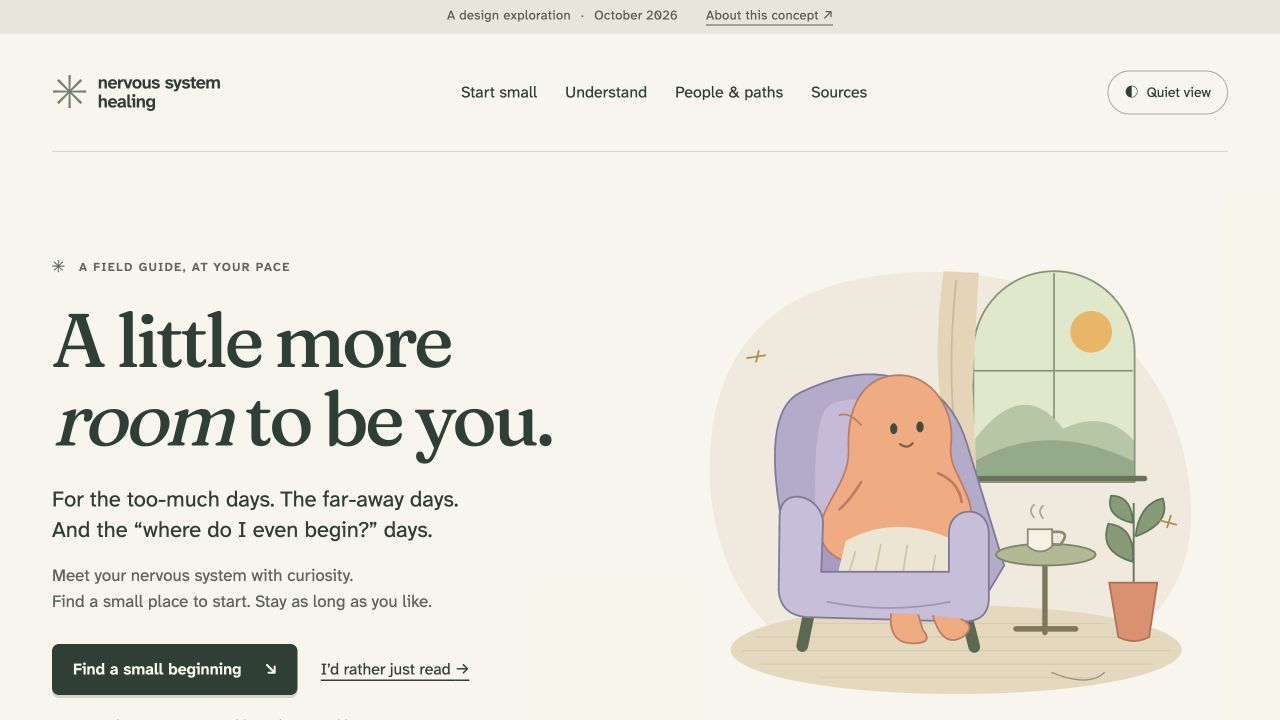
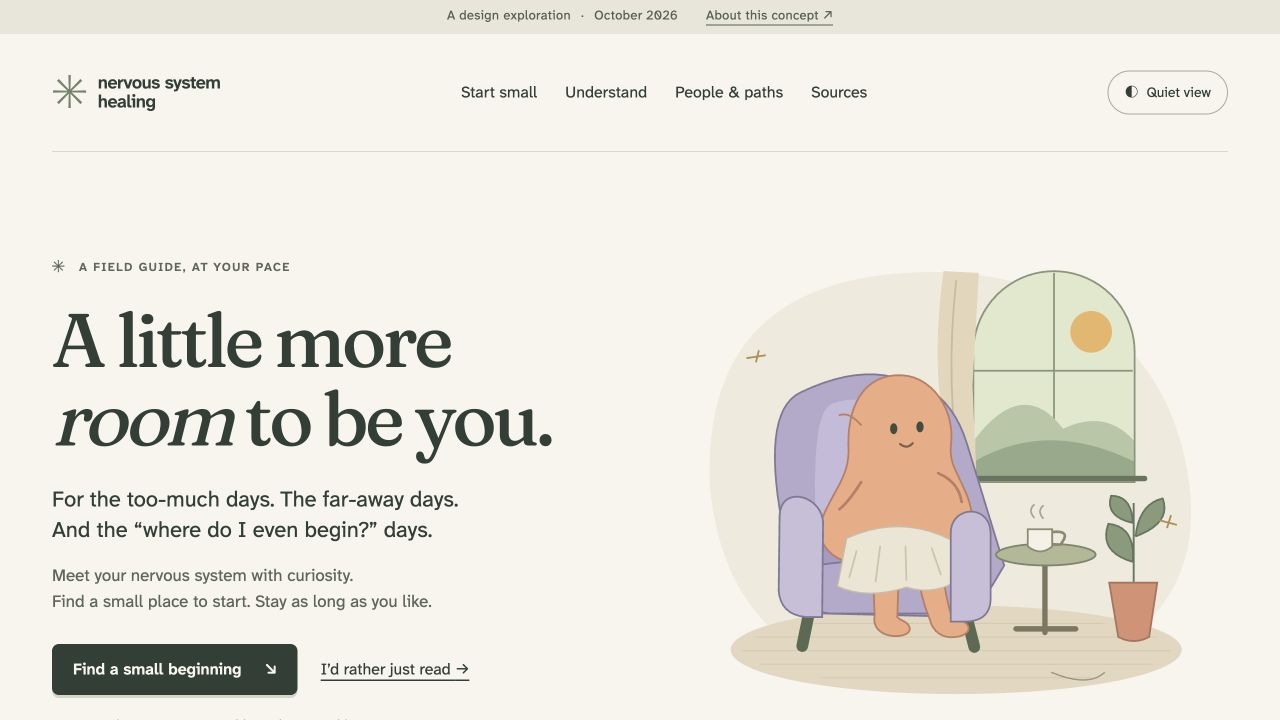
feat: publish MIT licensing and community contribution links
- License original project material under Christopher Smothers and align package metadata.
- Add contribution guidance and preserve third-party font attribution.
- Link the public repository, license, and contributions from the concept and live site.
- Refresh visual captures and record the successful Node 22 build.

Changed region(s): [[0.625, 0.7333, 0.7812, 0.9167]]

diff --git a/docs/concepts/a-little-more-room/index.html b/docs/concepts/a-little-more-room/index.html
@@ -9,7 +9,7 @@
       content="A design exploration for a friendlier field guide to having a nervous system."
     />
     <title>A little more room · Nervous System Healing concept</title>
-    <link rel="stylesheet" href="style.css" />
+    <link rel="stylesheet" href="style.css?v=20261010-community" />
     <script src="app.js" defer></script>
   </head>
   <body>
@@ -754,9 +754,23 @@
           ><span>nervous system<br />healing</span></a
         >
         <p>
-          A small project by <a href="https://crs.land/">Chris</a>.<br />Made
-          with curiosity. Still growing.
+          A free, open-source community resource by
+          <a href="https://crs.land/">Christopher Smothers</a>.<br />Made with
+          curiosity. Contributions welcome.
         </p>
+        <nav class="community-links" aria-label="Open source community">
+          <a href="https://github.com/crs48/nervous-system-healing"
+            >View the source on GitHub ↗</a
+          >
+          <a
+            href="https://github.com/crs48/nervous-system-healing/blob/main/CONTRIBUTING.md"
+            >Contribute ↗</a
+          >
+          <a
+            href="https://github.com/crs48/nervous-system-healing/blob/main/LICENSE"
+            >MIT license ↗</a
+          >
+        </nav>
       </div>
       <div id="about-concept">
         <h2 class="footer-title">About this concept</h2>

diff --git a/docs/concepts/a-little-more-room/style.css b/docs/concepts/a-little-more-room/style.css
@@ -714,6 +714,18 @@ footer .footer-title {
 footer p + p {
   margin-top: 12px;
 }
+.community-links {
+  display: flex;
+  flex-wrap: wrap;
+  gap: 0 20px;
+  margin-top: 12px;
+}
+.community-links a {
+  display: inline-flex;
+  align-items: center;
+  min-height: 44px;
+  font-size: 14px;
+}
 .quiet .decoration {
   display: none;
 }

diff --git a/CONTRIBUTING.md b/CONTRIBUTING.md
@@ -1,0 +1,43 @@
+# Contributing
+
+Nervous System Healing is a free, open-source community resource maintained by
+Christopher Smothers. Corrections, accessibility improvements, clearer writing,
+research updates, and thoughtful design contributions are welcome.
+
+## Suggest something
+
+Open an [issue](https://github.com/crs48/nervous-system-healing/issues) with the
+page or feature, what could improve, and a proposed change. For broken links,
+include the destination. For research updates, link the original study or
+guideline and explain which claim it affects.
+
+Issues and pull requests are public. Please avoid posting personal medical
+histories or identifying information about someone else. You can describe a
+usability problem without sharing a personal story.
+
+## Make a change
+
+1. Fork the repository and create a branch for one focused change.
+2. Follow the setup in [README.md](README.md) and read
+   [CONTENT_GUIDELINES.md](CONTENT_GUIDELINES.md). The latest
+   [overhaul exploration](docs/explorations/0010_%5B_%5D_A_LITTLE_MORE_ROOM_NERVOUS_SYSTEM_SITE_REJUVENATION.md)
+   identifies proposed updates to those guidelines; flag conflicts in your PR.
+3. Keep health claims specific to the population, intervention, and outcome
+   studied. Separate evidence, teaching frameworks, and personal experience.
+   Avoid universal safety claims, diagnoses from website inputs, and promises
+   of a permanent reset.
+4. Preserve choice, readable language, keyboard access, and the option to stop.
+   For visual changes, check narrow screens and reduced-motion preferences.
+5. Run `npm run build`. Explain what you changed and how you checked it in a
+   pull request; include a screenshot for a visible change.
+
+Small contributions are welcome. Larger changes are easier to coordinate with
+an issue first. Clinical content may need subject-matter review before merging.
+
+## License and attribution
+
+Contributions to this repository are made under its [MIT license](LICENSE).
+Only contribute material you have the right to share. Preserve existing
+copyright and license notices, including the separate font licenses noted in
+the README. Linking to a paper or resource does not grant permission to copy
+its text or images into the project.

diff --git a/docs/explorations/0010_[_]_A_LITTLE_MORE_ROOM_NERVOUS_SYSTEM_SITE_REJUVENATION.md b/docs/explorations/0010_[_]_A_LITTLE_MORE_ROOM_NERVOUS_SYSTEM_SITE_REJUVENATION.md
@@ -454,7 +454,7 @@ Each new resource has a named reason for inclusion and a review date. Link rot s
 - [x] Verify keyboard selection, focus visibility, quiet view, and static default presentation.
 - [x] Verify concept file links and document references.
 
-**Observed result:** the local concept was inspected at 1280px, 390px, and 320px. All four choices, arrow-key selection, ending/restart focus, quiet view, and disclosures worked. No horizontal overflow was found at those widths. A temporary script-free copy retained all four invitations and ordinary links; enhancement-only controls were hidden. JavaScript syntax and relative file/anchor checks passed; the final browser console reported no warnings or errors. [Preview instructions, scope, and screenshots](../concepts/a-little-more-room/README.md) are saved beside the concept. This is not a full accessibility or clinical certification. No production application files changed, so an Astro production build was not part of this exploration.
+**Observed result:** the local concept was inspected at 1280px, 390px, and 320px. All four choices, arrow-key selection, ending/restart focus, quiet view, and disclosures worked. No horizontal overflow was found at those widths. A temporary script-free copy retained all four invitations and ordinary links; enhancement-only controls were hidden. JavaScript syntax and relative file/anchor checks passed; the final browser console reported no warnings or errors. [Preview instructions, scope, and screenshots](../concepts/a-little-more-room/README.md) are saved beside the concept. This is not a full accessibility or clinical certification. The initial exploration changed no production application files. In the subsequent requested community update, the illustration was clarified, MIT licensing and contribution guidance were added, and both footers gained community links. The Astro build passed under Node 22.16.0 for that update; the full overhaul remains proposed.
 
 ### Required for production implementation
 

diff --git a/README.md b/README.md
@@ -7,6 +7,20 @@ hands.
 
 **Live site:** https://crs48.github.io/nervous-system-healing/
 
+**Public repository:** [crs48/nervous-system-healing](https://github.com/crs48/nervous-system-healing)
+
+A community resource by **Christopher Smothers**, released under the
+[MIT license](LICENSE). You're welcome to use, adapt, and improve it.
+See [CONTRIBUTING.md](CONTRIBUTING.md) for corrections, research updates,
+accessibility improvements, and pull requests.
+
+## Design exploration
+
+The [A little more room concept](docs/concepts/a-little-more-room/README.md)
+explores a warmer, more playful welcome. It includes a runnable preview,
+screenshots, and links to the research and overhaul brief. It is separate from
+the current live homepage.
+
 ## Stack
 
 - [Astro 7](https://astro.build/) (static output) + [Tailwind CSS v4](https://tailwindcss.com/)
@@ -46,3 +60,14 @@ project's direction are recorded as numbered explorations in
 
 Educational content, not medical advice. If you're in crisis in the US: call or
 text **988**, or text **HOME** to **741741**.
+
+## License and third-party material
+
+Original project code, documentation, and illustrations are available under
+the [MIT license](LICENSE), copyright © 2026 Christopher Smothers.
+
+Bundled fonts retain their SIL Open Font License notices:
+[Fraunces](docs/concepts/a-little-more-room/assets/FRAUNCES-LICENSE.txt) and
+[Atkinson Hyperlegible Next](docs/concepts/a-little-more-room/assets/ATKINSON-LICENSE.txt).
+Dependencies retain their own licenses. Linked papers, books, and other
+external resources are not relicensed by this project.

diff --git a/docs/concepts/a-little-more-room/README.md b/docs/concepts/a-little-more-room/README.md
@@ -21,6 +21,15 @@ Then open [the local preview](http://127.0.0.1:4178/). Port 4178 was used for th
 
 No selections are saved. There are no third-party fonts, embeds, tracking scripts, timers, or animations. Fraunces and Atkinson font files come from the repository's installed packages, with their licenses included. The SVG illustration was authored for this concept.
 
+## Community update
+
+The hero now has separate armrests and continuous legs beneath the blanket.
+The footer links to the public [repository](https://github.com/crs48/nervous-system-healing),
+its [MIT license](../../../LICENSE) under Christopher Smothers, and
+[contribution guidance](../../../CONTRIBUTING.md). The current Astro site's
+footer also identifies the project as an open-source community resource;
+the full homepage overhaul remains a separate implementation step.
+
 ## Review record — October 10, 2026
 
 - [x] Inspect the full desktop page at the default 1280px browser width.
@@ -41,5 +50,6 @@ These checks are a prototype review, not a WCAG certification or a clinical revi
 - [Desktop welcome](screenshots/desktop.jpg)
 - [Full page](screenshots/full-page.jpg)
 - [Mobile choice panel with keyboard focus](screenshots/mobile.jpg)
+- [Open-source community footer](screenshots/community-footer.jpg)
 
 ![Desktop welcome](screenshots/desktop.jpg)
